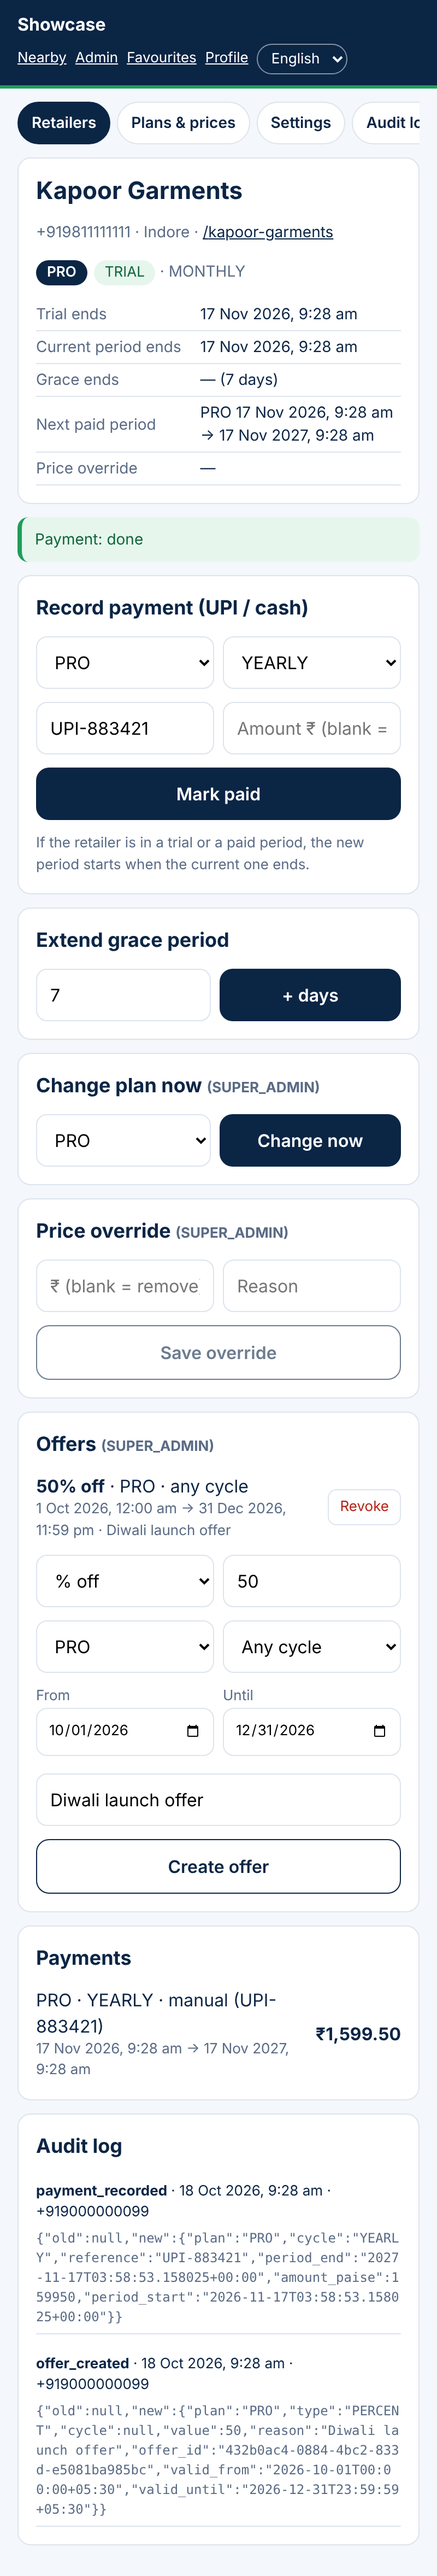
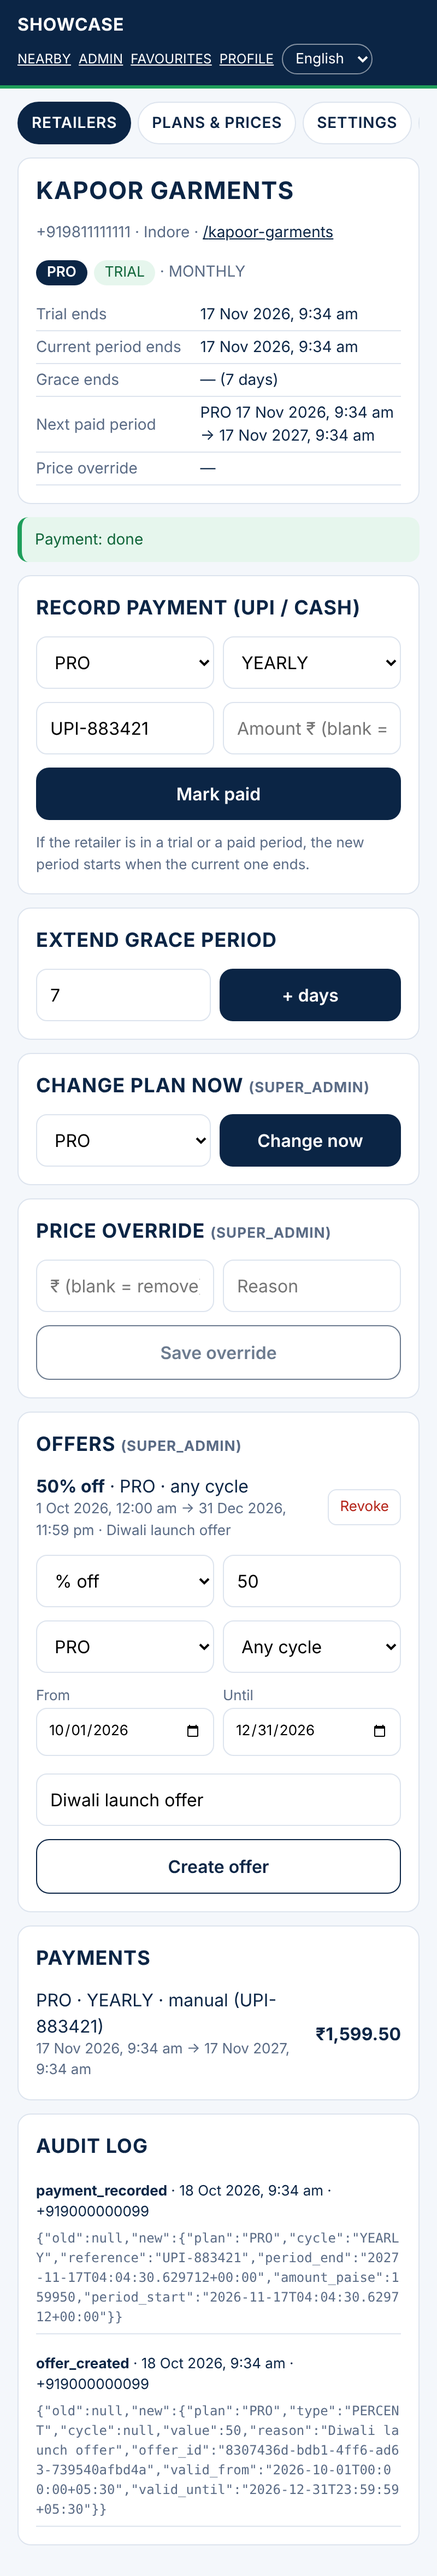
feat: universal capital headings for all screens and dashboards
Single CSS token (--heading-case) applies to headings, header nav, dashboard tabs and toggles;
future screens inherit it; rule recorded in SPEC section 8.

Claude-Session: https://claude.ai/code/session_01LqGz32zEMnh3UZ4hmqjfex

diff --git a/frontend/app/globals.css b/frontend/app/globals.css
@@ -15,6 +15,11 @@
   --wa: var(--green);
   --danger: #b42318;
   --radius: 12px;
+
+  /* UNIVERSAL HEADING STYLE (owner decision, SPEC §8 "UI conventions").
+     Every heading, nav link and tab on every screen/dashboard uses this — change it here only. */
+  --heading-case: uppercase;
+  --heading-tracking: 0.03em;
 }
 * { box-sizing: border-box; }
 html, body { margin: 0; padding: 0; }
@@ -139,3 +144,17 @@ input[type="date"] { width: 100%; min-height: 44px; padding: 8px 10px; border: 1
 .header { flex-wrap: wrap; row-gap: 6px; }
 .header nav { flex-wrap: wrap; justify-content: flex-end; row-gap: 4px; }
 .header select.lang-select { width: auto; min-height: 0; flex: none; padding: 4px 8px; border-radius: 999px; }
+
+/* Universal heading rule: applies automatically to all current and future dashboards.
+   New screens get it for free by using h1/h2/h3, the shared header, RetailerNav/AdminNav (.rnav) or .tabs;
+   any other custom heading just adds className="ui-heading". (Indic scripts have no capitals; they are unaffected.) */
+h1, h2, h3, h4,
+.brand,
+.header nav a,
+.rnav a,
+.tabs button,
+.ui-heading {
+  text-transform: var(--heading-case);
+  letter-spacing: var(--heading-tracking);
+}
+@media (max-width: 400px) { .header nav { gap: 7px; font-size: 12px; } .header nav a { letter-spacing: 0.01em; } }

diff --git a/SPEC.md b/SPEC.md
@@ -233,6 +233,7 @@ app/
 
 - Mobile-first, fast on low-end Android phones and 3G/4G; image compression and lazy loading; offline-friendly caching of browsed pages (PWA).
 - UI language: **English by default** (owner decision 2026-10-18). The user can switch to Hindi (hi), Gujarati (gu), Marathi (mr), Telugu (te), Bengali/Bangla (bn), Kannada (kn) or Odia (or); the choice is remembered on the device and saved in the profile. Every language must have every UI string (enforced at build time); more languages (e.g. Tamil) can be added the same way.
+- **UI conventions (owner decision 2026-10-18), apply to every current and future screen/dashboard:** headings, navigation links and tabs are shown in CAPITALS. This is one universal setting (`--heading-case` in `frontend/app/globals.css`); new screens must use h1–h4, the shared header/RetailerNav/AdminNav/`.tabs`, or the `ui-heading` class instead of styling headings themselves. Theme: navy blue + white with green accents.
 - Security: OTP rate limiting, input validation, signed media URLs, no secrets in code, audit logs for money-related state changes.
 - Money in paise (integers), all timestamps in UTC, display in IST.
 - Dockerized setup (docker-compose: api, postgres+postgis, redis, celery worker/beat), env-based config, OpenAPI docs.

diff --git a/CHANGELOG.md b/CHANGELOG.md
@@ -62,3 +62,6 @@
 - Razorpay Orders + Checkout with payment-signature and webhook verification (idempotent, amount-checked) — switches on when keys are set; admins can record UPI/cash payments meanwhile.
 - Admin (SUPPORT / SUPER_ADMIN): retailer list/search, record payment, extend grace, price override, offers, immediate plan change, plan prices (new-only grandfathering or all), plan features, trial/grace/GST settings; every change in the append-only audit log. Admin screens at `/admin` (English), retailer "Plan" screen in all 8 languages.
 - Migration `0004`; `scripts/create_admin.py`; 42 new tests (171 total); browser e2e: trial → admin offer + payment → retailer sees offer price and queued yearly period; screenshots in `docs/screenshots/step-5/`.
+
+## UI convention — capital headings everywhere
+- One universal setting (`--heading-case` in `frontend/app/globals.css`) puts every heading (h1–h4), header link, dashboard tab (`.rnav`) and toggle tab (`.tabs`) in CAPITALS; new screens get it automatically, custom headings use `ui-heading`. Recorded in SPEC §8 as a rule for all future screens. Indic scripts are unaffected (no capitals).
